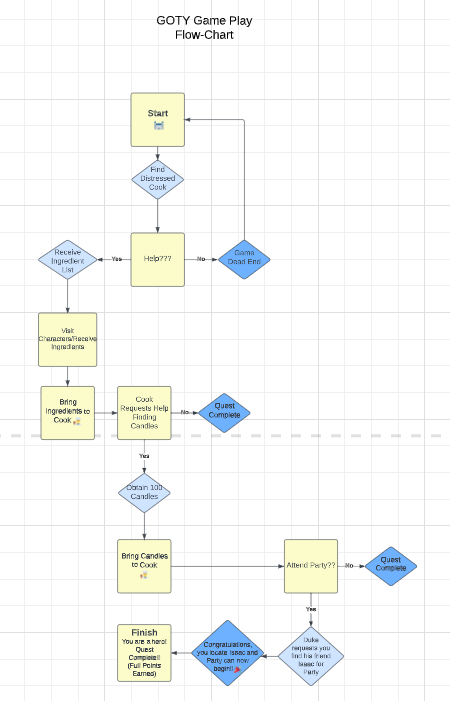
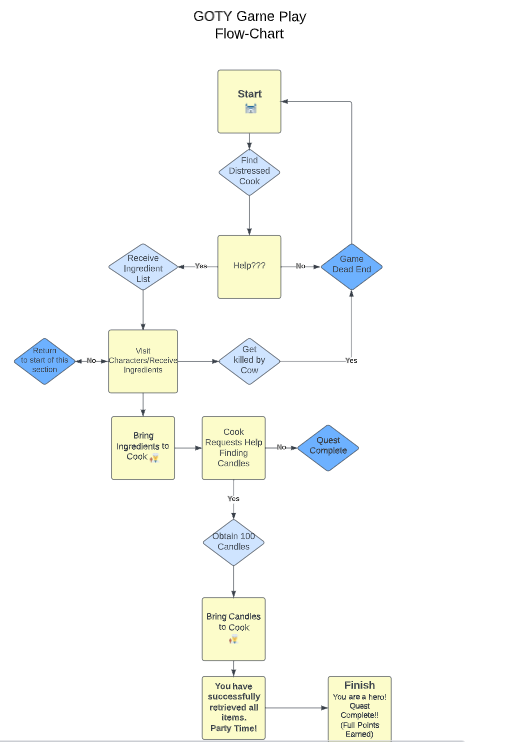
updated flow-chart image and added to ReadMe file, also added more information to ReadMe

diff --git a/README.md b/README.md
@@ -1,10 +1,27 @@
 # GOTY
-Marla and Isaac's Game of the Year
+Marla and Isaac's Game of the Year, *Cook's Assistant*
 
+
+Let the adventure begin! 
+
+In this game, you are transported to the Renaissance Period where you happen across JoshTheCook for whom is the head cook for a Duke.  He pleads for your help in obtaining several ingredients that are needed to bake a birthday cake for the Duke. Meet different characters along your way. Complete the quest and save JoshTheCook from the Duke's wrath.  
+
+This is a text based adventure style game loosely based off of the *Old School Rune Scape* online role-playing game.  To view a copy of the transcript we used for general guidance, click this [LINK](https://oldschool.runescape.wiki/w/Transcript:Cook%27s_Assistant).
+
+
+## Tech & Tools
+What we used to create this game:
+
+- C#
+- .NET SDK
+- Git
+- Visual Studio Code
 
 **Game Play Flow-Chart**
 
 ![GOTY Game Play Flow-Chart](./Assets/GOTYFlowChart.png)
 
-## Credits
+- *Cook's Assistant* was created as a result of Isaac and Marla's class assignment requiring them to come up with a simple game in the form of a Console Application for their Software Development course with [Eleven Fifty Academy](https://www.elevenfifty.org/)
+
+
 
